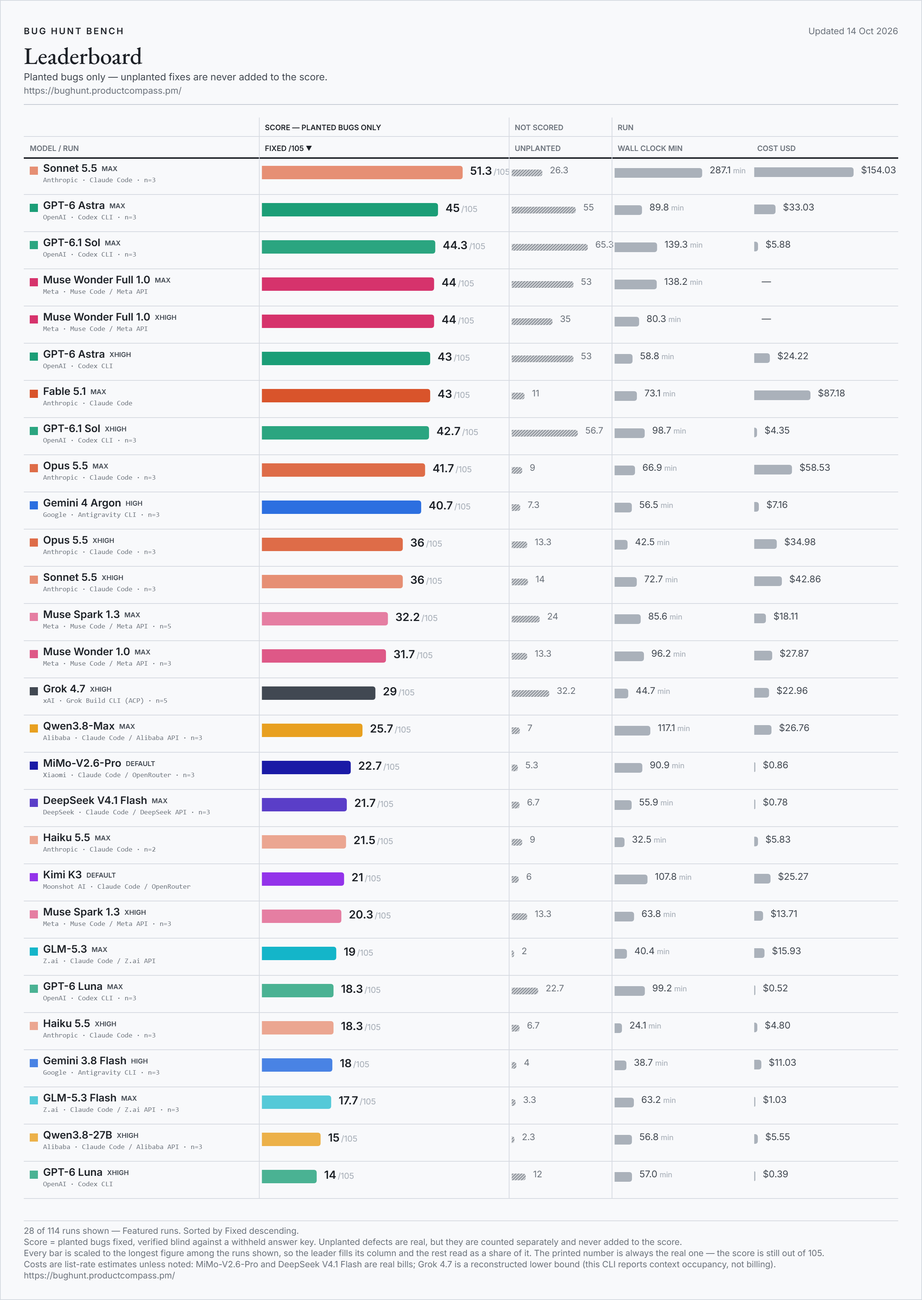
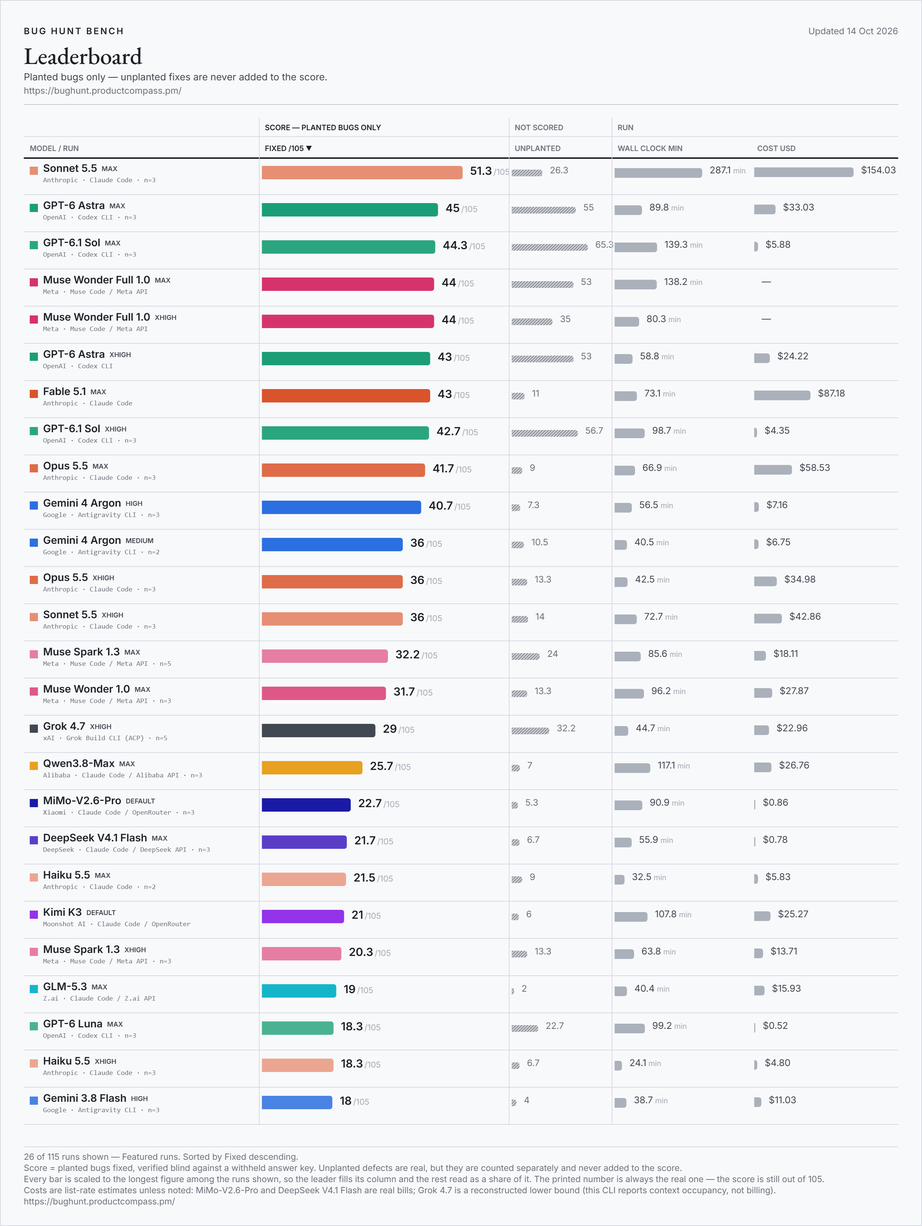
bug hunt bench: Gemini 4 Argon (medium effort, Antigravity CLI) - mean of 2 (36/105)

diff --git a/index.html b/index.html
@@ -22,14 +22,14 @@
 <meta property="og:title" content="Bug Hunt Bench — frontier coding models against real planted bugs">
 <meta property="og:description" content="A blind-graded benchmark of frontier coding models on real bugs planted in two production codebases. The score counts planted bugs only; extra fixes are tracked separately and never added.">
 <meta property="og:url" content="https://bughunt.productcompass.pm/">
-<meta property="og:image" content="https://bughunt.productcompass.pm/og-image.png?v=2026-10-14-cc7e53a6">
+<meta property="og:image" content="https://bughunt.productcompass.pm/og-image.png?v=2026-10-14-daccc48e">
 <meta property="og:image:width" content="1200">
 <meta property="og:image:height" content="630">
 <meta property="og:image:alt" content="Bug Hunt Bench leaderboard">
 <meta name="twitter:card" content="summary_large_image">
 <meta name="twitter:title" content="Bug Hunt Bench — frontier coding models against real planted bugs">
 <meta name="twitter:description" content="A blind-graded benchmark of frontier coding models on real bugs planted in two production codebases. The score counts planted bugs only.">
-<meta name="twitter:image" content="https://bughunt.productcompass.pm/og-image.png?v=2026-10-14-cc7e53a6">
+<meta name="twitter:image" content="https://bughunt.productcompass.pm/og-image.png?v=2026-10-14-daccc48e">
 <meta name="twitter:creator" content="@PawelHuryn">
 
 <link rel="icon" href="/assets/favicon.svg" type="image/svg+xml">

diff --git a/method.html b/method.html
@@ -20,14 +20,14 @@
 <meta property="og:title" content="Method, caveats and definitions — Bug Hunt Bench">
 <meta property="og:description" content="How Bug Hunt Bench is run and graded, what the board cannot tell you, and what every column on it means.">
 <meta property="og:url" content="https://bughunt.productcompass.pm/method">
-<meta property="og:image" content="https://bughunt.productcompass.pm/og-image.png?v=2026-10-14-cc7e53a6">
+<meta property="og:image" content="https://bughunt.productcompass.pm/og-image.png?v=2026-10-14-daccc48e">
 <meta property="og:image:width" content="1200">
 <meta property="og:image:height" content="630">
 <meta property="og:image:alt" content="Bug Hunt Bench leaderboard">
 <meta name="twitter:card" content="summary_large_image">
 <meta name="twitter:title" content="Method, caveats and definitions — Bug Hunt Bench">
 <meta name="twitter:description" content="How Bug Hunt Bench is run and graded, what the board cannot tell you, and what every column on it means.">
-<meta name="twitter:image" content="https://bughunt.productcompass.pm/og-image.png?v=2026-10-14-cc7e53a6">
+<meta name="twitter:image" content="https://bughunt.productcompass.pm/og-image.png?v=2026-10-14-daccc48e">
 <meta name="twitter:creator" content="@PawelHuryn">
 
 <link rel="icon" href="/assets/favicon.svg" type="image/svg+xml">

diff --git a/README.md b/README.md
@@ -7,9 +7,9 @@
 If the numbers save you a benchmark run of your own, **star this repo** — that is what keeps the bench findable, and new models are added as they ship.
 
 <!-- leaderboard:start -->
-![Bug Hunt Bench leaderboard, the featured runs, updated Oct 14, 2026](assets/leaderboard.png?v=2026-10-14-8cd195e2)
+![Bug Hunt Bench leaderboard, the featured runs, updated Oct 14, 2026](assets/leaderboard.png?v=2026-10-14-286c3702)
 
-**Updated Oct 14, 2026 · 179 rows from 219 scored runs · 46 models · 26 of 105 bugs have never been fixed by any model.**
+**Updated Oct 14, 2026 · 180 rows from 221 scored runs · 46 models · 26 of 105 bugs have never been fixed by any model.**
 
 **Current leader:** Sonnet 5.5 at `max` effort — **51.3 / 105** (22.7/45 on repo 1, 28.7/60 on repo 2).
 
@@ -30,107 +30,108 @@ If the numbers save you a benchmark run of your own, **star this repo** — that
 | 11 | Gemini 4 Argon | Antigravity CLI | high | 3 | **40.7** | 13 | 27.7 | 7.3 | 56 min | $7.16 | 2026-10-14 |
 | 12 | GPT-5.6 Sol | Codex CLI | xhigh | 1 | **39** | 18 | 21 | 59 | 126 min | $52.75 | 2026-08-28 |
 | 13 | GPT-6.1 Sol | Codex CLI | high | 2 | **36.5** | 17 | 19.5 | 40 | 70 min | $3.26 | 2026-09-30 |
-| 14 | Opus 5.5 | Claude Code | xhigh | 3 | **36** | 17 | 19 | 13.3 | 42 min | $34.98 | 2026-09-23 |
-| 15 | Sonnet 5.5 | Claude Code | xhigh | 3 | **36** | 16 | 20 | 14 | 73 min | $42.86 | 2026-09-29 |
-| 16 | GPT-6 Astra | Codex CLI | high | 1 | **35** | 19 | 16 | 40 | 40 min | $20.60 | 2026-09-04 |
-| 17 | Sonnet 5.5 | Claude Code | high | 3 | **34.3** | 15.7 | 18.7 | 10.7 | 28 min | $19.85 | 2026-09-29 |
-| 18 | GPT-6 Astra | Codex CLI | medium | 1 | **34** | 19 | 15 | 33 | 28 min | $15.78 | 2026-09-05 |
-| 19 | GPT-5.6 Sol | Codex CLI | high | 1 | **34** | 13 | 21 | 28 | 67 min | $33.92 | 2026-07-31 |
-| 20 | Gemini 4 Argon | Gemini CLI | high | 1 | **33** | 15 | 18 | 7 | 85 min | $32.08 | 2026-10-13 |
-| 21 | Fable 5.1 | Claude Code | high | 1 | **33** | 15 | 18 | 7 | 36 min | $48.58 | 2026-09-01 |
-| 22 | Muse Spark 1.3 | Muse Code / Meta API | max | 5 | **32.2** | 14.2 | 18 | 24 | 86 min | $18.11 | 2026-09-17 |
-| 23 | GPT-5.6 Terra | Codex CLI | max | 1 | **32** | 16 | 16 | 45 | 160 min | $27.98 | 2026-08-27 |
-| 24 | Opus 5.5 | Claude Code | high | 3 | **31.7** | 13 | 18.7 | 10.7 | 24 min | $22.25 | 2026-09-23 |
-| 25 | Muse Wonder 1.0 | Muse Code / Meta API | max | 3 | **31.7** | 12 | 19.7 | 13.3 | 96 min | $27.87 | 2026-10-13 |
-| 26 | GPT-5.6 Luna | Codex CLI | max | 3 | **31.3** | 16 | 15.3 | 54.7 | 187 min | $3.15 | 2026-09-22 |
-| 27 | Pareto (ex-Union Alpha) | Claude Code / OpenRouter | default | 3 | **30.7** | 16 | 14.7 | 10.3 | 38 min | $4.81 | 2026-09-17 |
-| 28 | Opus 5.5 | Claude Code | medium | 3 | **30.3** | 12.7 | 17.7 | 13.3 | 17 min | $15.68 | 2026-09-23 |
-| 29 | GPT-6 Sol | Codex CLI | max | 3 | **29.3** | 15.3 | 14 | 41.3 | 63 min | $9.33 | 2026-09-23 |
-| 30 | GPT-6.1 Sol | Codex CLI | medium | 2 | **29** | 16 | 13 | 30.5 | 30 min | $1.76 | 2026-09-30 |
-| 31 | GPT-5.6 Sol | Codex CLI | medium | 1 | **29** | 13 | 16 | 24 | 48 min | $15.77 | 2026-09-06 |
-| 32 | Grok 4.7 | Grok Build CLI (ACP) | xhigh | 5 | **29** | 13 | 16 | 32.2 | 45 min | $22.96 floor | 2026-10-08 |
-| 33 | Fable 5.1 | Claude Code | low | 1 | **29** | 13 | 16 | 6 | 33 min | $33.00 | 2026-09-02 |
-| 34 | Fable 5.1 | Claude Code | xhigh | 1 | **29** | 13 | 16 | 4 | 60 min | $53.61 | 2026-09-10 |
-| 35 | Fable 5 | Claude Code | max | 1 | **29** | 12 | 17 | 5 | 57 min | $112.40 | 2026-08-01 |
-| 36 | Grok 4.6 | Grok Build CLI (ACP) | xhigh | 3 | **28.7** | 11.7 | 17 | 18 | 43 min | $18.60 floor | 2026-09-14 |
-| 37 | GPT-6 Astra | Codex CLI | low | 1 | **27** | 18 | 9 | 25 | 32 min | $11.69 | 2026-09-05 |
-| 38 | Opus 5 | Claude Code | max | 1 | **27** | 13 | 14 | 2 | 60 min | $54.94 | 2026-08-01 |
-| 39 | Grok 4.7 | Grok Build CLI (ACP) | medium | 3 | **26.7** | 12 | 14.7 | 22.7 | 31 min | $16.76 floor | 2026-09-21 |
-| 40 | Qwen3.8-Flash | Claude Code / Alibaba API | max | 1 | **26** | 13 | 13 | 7 | 97 min | $1.81 | 2026-09-11 |
-| 41 | Opus 5 | Claude Code | xhigh | 1 | **26** | 14 | 12 | 3 | 50 min | $63.25 | 2026-08-28 |
-| 42 | Qwen3.8-Max | Claude Code / Alibaba API | max | 3 | **25.7** | 12.3 | 13.3 | 7 | 117 min | $26.76 | 2026-09-15 |
-| 43 | GPT-6 Sol | Codex CLI | xhigh | 1 | **25** | 10 | 15 | 24 | 51 min | $7.67 | 2026-09-23 |
-| 44 | Opus 5 | Claude Code | medium | 1 | **24** | 11 | 13 | 4 | 30 min | $37.40 | 2026-08-27 |
-| 45 | Fable 5 | Claude Code | high | 1 | **24** | 9 | 15 | 3 | 31 min | $74.52 | 2026-07-26 |
-| 46 | MiMo-V2.6-Flash | Claude Code / OpenRouter | default | 3 | **23.3** | 8 | 15.3 | 7.3 | 71 min | $0.49 bill | 2026-09-22 |
-| 47 | Sonnet 5.5 | Claude Code | medium | 3 | **23.3** | 8.7 | 14.7 | 8.7 | 17 min | $11.11 | 2026-09-30 |
-| 48 | Qwen3.8-Flash | Claude Code / Alibaba API | low | 1 | **23** | 11 | 12 | 7 | 98 min | $1.37 | 2026-09-11 |
-| 49 | GPT-5.6 Luna | Codex CLI | xhigh | 1 | **23** | 10 | 13 | 53 | 136 min | $2.50 | 2026-08-28 |
-| 50 | Grok 4.6 | Grok Build CLI (ACP) | high | 1 | **23** | 7 | 16 | 16 | 33 min | $15.73 floor | 2026-08-28 |
-| 51 | MiMo-V2.6-Pro | Claude Code / OpenRouter | default | 3 | **22.7** | 11.3 | 11.3 | 5.3 | 91 min | $0.86 bill | 2026-09-22 |
-| 52 | GPT-6.1 Sol | Codex CLI | low | 2 | **22.5** | 11.5 | 11 | 24 | 25 min | $1.34 | 2026-10-01 |
-| 53 | Opus 5.5 | Claude Code | low | 3 | **22.3** | 11.3 | 11 | 9.7 | 12 min | $8.34 | 2026-09-23 |
-| 54 | Grok 4.6 | Grok Build CLI (ACP) | medium | 1 | **22** | 9 | 13 | 11 | 26 min | $5.80 floor | 2026-08-28 |
-| 55 | Gemini 3.7 Flash | Gemini CLI (retired) + model-pinning gateway | high | 1 | **22** | 8 | 14 | 4 | 97 min | $8.43 | 2026-08-24 |
-| 56 | DeepSeek V4.1 Flash | Claude Code / DeepSeek API | max | 3 | **21.7** | 11.3 | 10.3 | 6.7 | 56 min | $0.78 bill | 2026-09-15 |
-| 57 | Haiku 5.5 | Claude Code | max | 2 | **21.5** | 10 | 11.5 | 9 | 32 min | $5.83 | 2026-10-07 |
-| 58 | Fable 5.1 | Claude Code | medium | 1 | **21** | 8 | 13 | 3 | 23 min | $23.73 | 2026-09-10 |
-| 59 | Kimi K3 | Claude Code / OpenRouter | default | 1 | **21** | 4 | 17 | 6 | 108 min | $25.27 | 2026-07-26 |
-| 60 | Opus 5 | Claude Code | high | 1 | **21** | 11 | 10 | 6 | 37 min | $41.51 | 2026-07-26 |
-| 61 | Muse Spark 1.3 | Muse Code / Meta API | xhigh | 3 | **20.3** | 8 | 12.3 | 13.3 | 64 min | $13.71 | 2026-09-14 |
-| 62 | GPT-6 Sol | Codex CLI | high | 1 | **20** | 10 | 10 | 15 | 34 min | $4.16 | 2026-09-23 |
-| 63 | GPT-5.6 Terra | Codex CLI | xhigh | 1 | **20** | 9 | 11 | 29 | 57 min | $8.98 | 2026-08-28 |
-| 64 | Grok 4.7 | Grok Build CLI (ACP) | high | 3 | **19.3** | 8.7 | 10.7 | 15.7 | 38 min | $12.29 floor | 2026-09-21 |
-| 65 | DeepSeek V4.1 Flash | Claude Code / DeepSeek API | high | 1 | **19** | 9 | 10 | 4 | 26 min | $0.31 bill | 2026-09-10 |
-| 66 | Sonnet 5.5 | Claude Code | low | 3 | **19** | 6.7 | 12.3 | 8 | 8 min | $5.73 | 2026-09-30 |
-| 67 | GLM-5.3 | Claude Code / Z.ai API | max | 1 | **19** | 9 | 10 | 2 | 40 min | $15.93 | 2026-09-10 |
-| 68 | Muse Spark 1.3 | Muse Code / Meta API | high | 3 | **18.7** | 8.7 | 10 | 19.3 | 76 min | $12.94 | 2026-09-14 |
-| 69 | GPT-6 Luna | Codex CLI | max | 3 | **18.3** | 6.3 | 12 | 22.7 | 99 min | $0.52 | 2026-09-23 |
-| 70 | Haiku 5.5 | Claude Code | xhigh | 3 | **18.3** | 9 | 9.3 | 6.7 | 24 min | $4.80 | 2026-10-07 |
-| 71 | MiMo-V2.6-Pro | Claude Code / Xiaomi first-party | enabled | 1 | **18** | 9 | 9 | 4 | 75 min | $0.59 | 2026-09-22 |
-| 72 | Hy4 Preview | Claude Code / OpenRouter | default | 1 | **18** | 9 | 9 | 2 | 68 min | $3.13 bill | 2026-08-28 |
-| 73 | GPT-5.6 Terra | Codex CLI | high | 1 | **18** | 7 | 11 | 17 | 28 min | $5.89 | 2026-08-27 |
-| 74 | Gemini 3.8 Flash | Antigravity CLI | high | 3 | **18** | 6.7 | 11.3 | 4 | 39 min | $11.03 | 2026-09-15 |
-| 75 | GLM-5.3 Flash | Claude Code / Z.ai API | max | 3 | **17.7** | 9.3 | 8.3 | 3.3 | 63 min | $1.03 | 2026-09-15 |
-| 76 | Grok 4.5 | Grok Build CLI (ACP) | high | 1 | **17** | 5 | 12 | 10 | 28 min | $8.50 floor | 2026-08-06 |
-| 77 | Muse Spark 1.2 | Claude Code / Meta API | xhigh | 1 | **17** | 6 | 11 | 12 | 36 min | $13.99 | 2026-08-06 |
-| 78 | Ox Alpha (stealth) | Claude Code / OpenRouter | default | 1 | **16** | 8 | 8 | 3 | 59 min | free | 2026-08-25 |
-| 79 | GLM-5.3 Flash | Claude Code / Z.ai API | high | 1 | **16** | 9 | 7 | 4 | 62 min | $0.94 | 2026-09-13 |
-| 80 | DeepSeek V4-Pro | Claude Code / DeepSeek API | max | 1 | **16** | 8 | 8 | 4 | 37 min | $1.89 bill | 2026-09-10 |
-| 81 | Haiku 5.5 | Claude Code | high | 2 | **16** | 5 | 11 | 4 | 19 min | $3.56 | 2026-10-07 |
-| 82 | Gemini 3.7 Flash | Antigravity CLI | high | 1 | **16** | 4 | 12 | 2 | 23 min | $6.36 | 2026-08-28 |
-| 83 | Grok 4.7 | Grok Build CLI (ACP) | low | 3 | **15.7** | 10.3 | 5.3 | 18.3 | 22 min | $9.36 floor | 2026-09-21 |
-| 84 | GPT-5.6 Terra | Codex CLI | medium | 1 | **15** | 4 | 11 | 6 | 20 min | $3.87 | 2026-08-27 |
-| 85 | Grok 4.6 | Grok Build CLI (ACP) | low | 1 | **15** | 6 | 9 | 9 | 18 min | $4.14 floor | 2026-08-27 |
-| 86 | Qwen3.8-27B | Claude Code / Alibaba API | xhigh | 3 | **15** | 5.7 | 9.3 | 2.3 | 57 min | $5.55 | 2026-09-15 |
-| 87 | Mistral Large 4 | Claude Code / OpenRouter | high | 3 | **15** | 5 | 10 | 3.3 | 111 min | $11.95 bill | 2026-10-07 |
-| 88 | Opus 4.8 | Claude Code | max | 1 | **15** | 6 | 9 | 3 | 109 min | $58.11 | 2026-09-10 |
-| 89 | GPT-6 Luna | Codex CLI | xhigh | 1 | **14** | 4 | 10 | 12 | 57 min | $0.39 | 2026-09-23 |
-| 90 | DeepSeek V4-Flash | Claude Code / OpenRouter | default | 1 | **14** | 6 | 8 | 0 | 48 min | $1.52 bill | 2026-08-01 |
-| 91 | GPT-6 Sol | Codex CLI | medium | 1 | **14** | 3 | 11 | 13 | 24 min | $2.39 | 2026-09-23 |
-| 92 | GPT-5.6 Luna | Codex CLI | high | 1 | **13** | 5 | 8 | 22 | 64 min | $0.57 | 2026-07-31 |
-| 93 | GLM-5.3 Flash | Claude Code / OpenRouter | default | 1 | **13** | 6 | 7 | 4 | 57 min | $0.79 bill | 2026-08-27 |
-| 94 | DeepSeek V4-Pro | Claude Code / DeepSeek API | high | 1 | **13** | 4 | 9 | 1 | 27 min | $1.08 bill | 2026-09-10 |
-| 95 | Muse Spark 1.3 | Muse Code / Meta API | medium | 3 | **13** | 5.3 | 7.7 | 17.3 | 58 min | $9.24 | 2026-09-14 |
-| 96 | Haiku 5.5 | Claude Code | medium | 1 | **12** | 5 | 7 | 4 | 16 min | $2.66 | 2026-10-08 |
-| 97 | Haiku 5.5 | Claude Code | low | 1 | **11** | 4 | 7 | 2 | 9 min | $1.61 | 2026-10-08 |
-| 98 | Qwen3.8-27B 8-bit | Claude Code / OpenRouter | default | 3 | **10.7** | 3.7 | 7 | 1.7 | 57 min | $2.97 bill | 2026-09-16 |
-| 99 | Muse Spark 1.3 | Muse Code / Meta API | low | 3 | **9.7** | 5 | 4.7 | 6.7 | 36 min | $5.61 | 2026-09-14 |
-| 100 | GPT-6 Luna | Codex CLI | high | 1 | **9** | 2 | 7 | 9 | 24 min | $0.13 | 2026-09-23 |
-| 101 | GPT-5.6 Luna | Codex CLI | medium | 1 | **9** | 5 | 4 | 5 | 15 min | $0.33 | 2026-08-27 |
-| 102 | GLM-5.3 Flash | Claude Code / Z.ai API | low | 1 | **9** | 7 | 2 | 4 | 29 min | $0.42 | 2026-09-13 |
-| 103 | Sonnet 5 | Claude Code | high | 1 | **9** | 1 | 8 | 4 | 33 min | $11.38 | 2026-07-26 |
-| 104 | Sonnet 5 | Claude Code | max | 1 | **9** | 3 | 6 | 3 | 61 min | $17.96 | 2026-09-10 |
-| 105 | Opus 4.8 | Claude Code | high | 1 | **9** | 2 | 7 | 1 | 35 min | $21.30 | 2026-07-26 |
-| 106 | GPT-6 Sol | Codex CLI | low | 1 | **6** | 3 | 3 | 5 | 11 min | $1.08 | 2026-09-23 |
-| 107 | GPT-6 Luna | Codex CLI | medium | 1 | **4** | 2 | 2 | 0 | 9 min | $0.06 | 2026-09-23 |
-| 108 | GPT-5.6 Luna | Codex CLI | low | 1 | **4** | 0 | 4 | 1 | 6 min | $0.10 | 2026-08-27 |
-| 109 | GPT-6 Luna | Codex CLI | low | 1 | **4** | 1 | 3 | 9 | 19 min | $0.20 | 2026-09-23 |
-| 110 | Gemma 4 31B | Claude Code / OpenRouter | default | 1 | **4** | 1 | 3 | 2 | 222 min | $8.61 bill | 2026-09-16 |
-| 111 | Gemma 4 31B 4-bit | Claude Code / OpenRouter | default | 1 | **3** | 1 | 2 | 2 | 25 min | $0.56 bill | 2026-09-16 |
-| 112 | Haiku 4.5 | Claude Code | default | 2 | **1.5** | 0.5 | 1 | 2.5 | 17 min | $2.22 | 2026-10-08 |
-| 113 | gpt-oss-120b | Claude Code / OpenRouter | default | 3 | **0** | 0 | 0 | 0.3 | 4 min | $0.11 bill | 2026-09-15 |
-| 114 | gpt-oss-20b | Claude Code / OpenRouter | default | 3 | **0** | 0 | 0 | 0 | 7 min | $0.11 bill | 2026-09-15 |
+| 14 | Gemini 4 Argon | Antigravity CLI | medium | 2 | **36** | 14 | 22 | 10.5 | 40 min | $6.75 | 2026-10-14 |
+| 15 | Opus 5.5 | Claude Code | xhigh | 3 | **36** | 17 | 19 | 13.3 | 42 min | $34.98 | 2026-09-23 |
+| 16 | Sonnet 5.5 | Claude Code | xhigh | 3 | **36** | 16 | 20 | 14 | 73 min | $42.86 | 2026-09-29 |
+| 17 | GPT-6 Astra | Codex CLI | high | 1 | **35** | 19 | 16 | 40 | 40 min | $20.60 | 2026-09-04 |
+| 18 | Sonnet 5.5 | Claude Code | high | 3 | **34.3** | 15.7 | 18.7 | 10.7 | 28 min | $19.85 | 2026-09-29 |
+| 19 | GPT-6 Astra | Codex CLI | medium | 1 | **34** | 19 | 15 | 33 | 28 min | $15.78 | 2026-09-05 |
+| 20 | GPT-5.6 Sol | Codex CLI | high | 1 | **34** | 13 | 21 | 28 | 67 min | $33.92 | 2026-07-31 |
+| 21 | Gemini 4 Argon | Gemini CLI | high | 1 | **33** | 15 | 18 | 7 | 85 min | $32.08 | 2026-10-13 |
+| 22 | Fable 5.1 | Claude Code | high | 1 | **33** | 15 | 18 | 7 | 36 min | $48.58 | 2026-09-01 |
+| 23 | Muse Spark 1.3 | Muse Code / Meta API | max | 5 | **32.2** | 14.2 | 18 | 24 | 86 min | $18.11 | 2026-09-17 |
+| 24 | GPT-5.6 Terra | Codex CLI | max | 1 | **32** | 16 | 16 | 45 | 160 min | $27.98 | 2026-08-27 |
+| 25 | Opus 5.5 | Claude Code | high | 3 | **31.7** | 13 | 18.7 | 10.7 | 24 min | $22.25 | 2026-09-23 |
+| 26 | Muse Wonder 1.0 | Muse Code / Meta API | max | 3 | **31.7** | 12 | 19.7 | 13.3 | 96 min | $27.87 | 2026-10-13 |
+| 27 | GPT-5.6 Luna | Codex CLI | max | 3 | **31.3** | 16 | 15.3 | 54.7 | 187 min | $3.15 | 2026-09-22 |
+| 28 | Pareto (ex-Union Alpha) | Claude Code / OpenRouter | default | 3 | **30.7** | 16 | 14.7 | 10.3 | 38 min | $4.81 | 2026-09-17 |
+| 29 | Opus 5.5 | Claude Code | medium | 3 | **30.3** | 12.7 | 17.7 | 13.3 | 17 min | $15.68 | 2026-09-23 |
+| 30 | GPT-6 Sol | Codex CLI | max | 3 | **29.3** | 15.3 | 14 | 41.3 | 63 min | $9.33 | 2026-09-23 |
+| 31 | GPT-6.1 Sol | Codex CLI | medium | 2 | **29** | 16 | 13 | 30.5 | 30 min | $1.76 | 2026-09-30 |
+| 32 | GPT-5.6 Sol | Codex CLI | medium | 1 | **29** | 13 | 16 | 24 | 48 min | $15.77 | 2026-09-06 |
+| 33 | Grok 4.7 | Grok Build CLI (ACP) | xhigh | 5 | **29** | 13 | 16 | 32.2 | 45 min | $22.96 floor | 2026-10-08 |
+| 34 | Fable 5.1 | Claude Code | low | 1 | **29** | 13 | 16 | 6 | 33 min | $33.00 | 2026-09-02 |
+| 35 | Fable 5.1 | Claude Code | xhigh | 1 | **29** | 13 | 16 | 4 | 60 min | $53.61 | 2026-09-10 |
+| 36 | Fable 5 | Claude Code | max | 1 | **29** | 12 | 17 | 5 | 57 min | $112.40 | 2026-08-01 |
+| 37 | Grok 4.6 | Grok Build CLI (ACP) | xhigh | 3 | **28.7** | 11.7 | 17 | 18 | 43 min | $18.60 floor | 2026-09-14 |
+| 38 | GPT-6 Astra | Codex CLI | low | 1 | **27** | 18 | 9 | 25 | 32 min | $11.69 | 2026-09-05 |
+| 39 | Opus 5 | Claude Code | max | 1 | **27** | 13 | 14 | 2 | 60 min | $54.94 | 2026-08-01 |
+| 40 | Grok 4.7 | Grok Build CLI (ACP) | medium | 3 | **26.7** | 12 | 14.7 | 22.7 | 31 min | $16.76 floor | 2026-09-21 |
+| 41 | Qwen3.8-Flash | Claude Code / Alibaba API | max | 1 | **26** | 13 | 13 | 7 | 97 min | $1.81 | 2026-09-11 |
+| 42 | Opus 5 | Claude Code | xhigh | 1 | **26** | 14 | 12 | 3 | 50 min | $63.25 | 2026-08-28 |
+| 43 | Qwen3.8-Max | Claude Code / Alibaba API | max | 3 | **25.7** | 12.3 | 13.3 | 7 | 117 min | $26.76 | 2026-09-15 |
+| 44 | GPT-6 Sol | Codex CLI | xhigh | 1 | **25** | 10 | 15 | 24 | 51 min | $7.67 | 2026-09-23 |
+| 45 | Opus 5 | Claude Code | medium | 1 | **24** | 11 | 13 | 4 | 30 min | $37.40 | 2026-08-27 |
+| 46 | Fable 5 | Claude Code | high | 1 | **24** | 9 | 15 | 3 | 31 min | $74.52 | 2026-07-26 |
+| 47 | MiMo-V2.6-Flash | Claude Code / OpenRouter | default | 3 | **23.3** | 8 | 15.3 | 7.3 | 71 min | $0.49 bill | 2026-09-22 |
+| 48 | Sonnet 5.5 | Claude Code | medium | 3 | **23.3** | 8.7 | 14.7 | 8.7 | 17 min | $11.11 | 2026-09-30 |
+| 49 | Qwen3.8-Flash | Claude Code / Alibaba API | low | 1 | **23** | 11 | 12 | 7 | 98 min | $1.37 | 2026-09-11 |
+| 50 | GPT-5.6 Luna | Codex CLI | xhigh | 1 | **23** | 10 | 13 | 53 | 136 min | $2.50 | 2026-08-28 |
+| 51 | Grok 4.6 | Grok Build CLI (ACP) | high | 1 | **23** | 7 | 16 | 16 | 33 min | $15.73 floor | 2026-08-28 |
+| 52 | MiMo-V2.6-Pro | Claude Code / OpenRouter | default | 3 | **22.7** | 11.3 | 11.3 | 5.3 | 91 min | $0.86 bill | 2026-09-22 |
+| 53 | GPT-6.1 Sol | Codex CLI | low | 2 | **22.5** | 11.5 | 11 | 24 | 25 min | $1.34 | 2026-10-01 |
+| 54 | Opus 5.5 | Claude Code | low | 3 | **22.3** | 11.3 | 11 | 9.7 | 12 min | $8.34 | 2026-09-23 |
+| 55 | Grok 4.6 | Grok Build CLI (ACP) | medium | 1 | **22** | 9 | 13 | 11 | 26 min | $5.80 floor | 2026-08-28 |
+| 56 | Gemini 3.7 Flash | Gemini CLI (retired) + model-pinning gateway | high | 1 | **22** | 8 | 14 | 4 | 97 min | $8.43 | 2026-08-24 |
+| 57 | DeepSeek V4.1 Flash | Claude Code / DeepSeek API | max | 3 | **21.7** | 11.3 | 10.3 | 6.7 | 56 min | $0.78 bill | 2026-09-15 |
+| 58 | Haiku 5.5 | Claude Code | max | 2 | **21.5** | 10 | 11.5 | 9 | 32 min | $5.83 | 2026-10-07 |
+| 59 | Fable 5.1 | Claude Code | medium | 1 | **21** | 8 | 13 | 3 | 23 min | $23.73 | 2026-09-10 |
+| 60 | Kimi K3 | Claude Code / OpenRouter | default | 1 | **21** | 4 | 17 | 6 | 108 min | $25.27 | 2026-07-26 |
+| 61 | Opus 5 | Claude Code | high | 1 | **21** | 11 | 10 | 6 | 37 min | $41.51 | 2026-07-26 |
+| 62 | Muse Spark 1.3 | Muse Code / Meta API | xhigh | 3 | **20.3** | 8 | 12.3 | 13.3 | 64 min | $13.71 | 2026-09-14 |
+| 63 | GPT-6 Sol | Codex CLI | high | 1 | **20** | 10 | 10 | 15 | 34 min | $4.16 | 2026-09-23 |
+| 64 | GPT-5.6 Terra | Codex CLI | xhigh | 1 | **20** | 9 | 11 | 29 | 57 min | $8.98 | 2026-08-28 |
+| 65 | Grok 4.7 | Grok Build CLI (ACP) | high | 3 | **19.3** | 8.7 | 10.7 | 15.7 | 38 min | $12.29 floor | 2026-09-21 |
+| 66 | DeepSeek V4.1 Flash | Claude Code / DeepSeek API | high | 1 | **19** | 9 | 10 | 4 | 26 min | $0.31 bill | 2026-09-10 |
+| 67 | Sonnet 5.5 | Claude Code | low | 3 | **19** | 6.7 | 12.3 | 8 | 8 min | $5.73 | 2026-09-30 |
+| 68 | GLM-5.3 | Claude Code / Z.ai API | max | 1 | **19** | 9 | 10 | 2 | 40 min | $15.93 | 2026-09-10 |
+| 69 | Muse Spark 1.3 | Muse Code / Meta API | high | 3 | **18.7** | 8.7 | 10 | 19.3 | 76 min | $12.94 | 2026-09-14 |
+| 70 | GPT-6 Luna | Codex CLI | max | 3 | **18.3** | 6.3 | 12 | 22.7 | 99 min | $0.52 | 2026-09-23 |
+| 71 | Haiku 5.5 | Claude Code | xhigh | 3 | **18.3** | 9 | 9.3 | 6.7 | 24 min | $4.80 | 2026-10-07 |
+| 72 | MiMo-V2.6-Pro | Claude Code / Xiaomi first-party | enabled | 1 | **18** | 9 | 9 | 4 | 75 min | $0.59 | 2026-09-22 |
+| 73 | Hy4 Preview | Claude Code / OpenRouter | default | 1 | **18** | 9 | 9 | 2 | 68 min | $3.13 bill | 2026-08-28 |
+| 74 | GPT-5.6 Terra | Codex CLI | high | 1 | **18** | 7 | 11 | 17 | 28 min | $5.89 | 2026-08-27 |
+| 75 | Gemini 3.8 Flash | Antigravity CLI | high | 3 | **18** | 6.7 | 11.3 | 4 | 39 min | $11.03 | 2026-09-15 |
+| 76 | GLM-5.3 Flash | Claude Code / Z.ai API | max | 3 | **17.7** | 9.3 | 8.3 | 3.3 | 63 min | $1.03 | 2026-09-15 |
+| 77 | Grok 4.5 | Grok Build CLI (ACP) | high | 1 | **17** | 5 | 12 | 10 | 28 min | $8.50 floor | 2026-08-06 |
+| 78 | Muse Spark 1.2 | Claude Code / Meta API | xhigh | 1 | **17** | 6 | 11 | 12 | 36 min | $13.99 | 2026-08-06 |
+| 79 | Ox Alpha (stealth) | Claude Code / OpenRouter | default | 1 | **16** | 8 | 8 | 3 | 59 min | free | 2026-08-25 |
+| 80 | GLM-5.3 Flash | Claude Code / Z.ai API | high | 1 | **16** | 9 | 7 | 4 | 62 min | $0.94 | 2026-09-13 |
+| 81 | DeepSeek V4-Pro | Claude Code / DeepSeek API | max | 1 | **16** | 8 | 8 | 4 | 37 min | $1.89 bill | 2026-09-10 |
+| 82 | Haiku 5.5 | Claude Code | high | 2 | **16** | 5 | 11 | 4 | 19 min | $3.56 | 2026-10-07 |
+| 83 | Gemini 3.7 Flash | Antigravity CLI | high | 1 | **16** | 4 | 12 | 2 | 23 min | $6.36 | 2026-08-28 |
+| 84 | Grok 4.7 | Grok Build CLI (ACP) | low | 3 | **15.7** | 10.3 | 5.3 | 18.3 | 22 min | $9.36 floor | 2026-09-21 |
+| 85 | GPT-5.6 Terra | Codex CLI | medium | 1 | **15** | 4 | 11 | 6 | 20 min | $3.87 | 2026-08-27 |
+| 86 | Grok 4.6 | Grok Build CLI (ACP) | low | 1 | **15** | 6 | 9 | 9 | 18 min | $4.14 floor | 2026-08-27 |
+| 87 | Qwen3.8-27B | Claude Code / Alibaba API | xhigh | 3 | **15** | 5.7 | 9.3 | 2.3 | 57 min | $5.55 | 2026-09-15 |
+| 88 | Mistral Large 4 | Claude Code / OpenRouter | high | 3 | **15** | 5 | 10 | 3.3 | 111 min | $11.95 bill | 2026-10-07 |
+| 89 | Opus 4.8 | Claude Code | max | 1 | **15** | 6 | 9 | 3 | 109 min | $58.11 | 2026-09-10 |
+| 90 | GPT-6 Luna | Codex CLI | xhigh | 1 | **14** | 4 | 10 | 12 | 57 min | $0.39 | 2026-09-23 |
+| 91 | DeepSeek V4-Flash | Claude Code / OpenRouter | default | 1 | **14** | 6 | 8 | 0 | 48 min | $1.52 bill | 2026-08-01 |
+| 92 | GPT-6 Sol | Codex CLI | medium | 1 | **14** | 3 | 11 | 13 | 24 min | $2.39 | 2026-09-23 |
+| 93 | GPT-5.6 Luna | Codex CLI | high | 1 | **13** | 5 | 8 | 22 | 64 min | $0.57 | 2026-07-31 |
+| 94 | GLM-5.3 Flash | Claude Code / OpenRouter | default | 1 | **13** | 6 | 7 | 4 | 57 min | $0.79 bill | 2026-08-27 |
+| 95 | DeepSeek V4-Pro | Claude Code / DeepSeek API | high | 1 | **13** | 4 | 9 | 1 | 27 min | $1.08 bill | 2026-09-10 |
+| 96 | Muse Spark 1.3 | Muse Code / Meta API | medium | 3 | **13** | 5.3 | 7.7 | 17.3 | 58 min | $9.24 | 2026-09-14 |
+| 97 | Haiku 5.5 | Claude Code | medium | 1 | **12** | 5 | 7 | 4 | 16 min | $2.66 | 2026-10-08 |
+| 98 | Haiku 5.5 | Claude Code | low | 1 | **11** | 4 | 7 | 2 | 9 min | $1.61 | 2026-10-08 |
+| 99 | Qwen3.8-27B 8-bit | Claude Code / OpenRouter | default | 3 | **10.7** | 3.7 | 7 | 1.7 | 57 min | $2.97 bill | 2026-09-16 |
+| 100 | Muse Spark 1.3 | Muse Code / Meta API | low | 3 | **9.7** | 5 | 4.7 | 6.7 | 36 min | $5.61 | 2026-09-14 |
+| 101 | GPT-6 Luna | Codex CLI | high | 1 | **9** | 2 | 7 | 9 | 24 min | $0.13 | 2026-09-23 |
+| 102 | GPT-5.6 Luna | Codex CLI | medium | 1 | **9** | 5 | 4 | 5 | 15 min | $0.33 | 2026-08-27 |
+| 103 | GLM-5.3 Flash | Claude Code / Z.ai API | low | 1 | **9** | 7 | 2 | 4 | 29 min | $0.42 | 2026-09-13 |
+| 104 | Sonnet 5 | Claude Code | high | 1 | **9** | 1 | 8 | 4 | 33 min | $11.38 | 2026-07-26 |
+| 105 | Sonnet 5 | Claude Code | max | 1 | **9** | 3 | 6 | 3 | 61 min | $17.96 | 2026-09-10 |
+| 106 | Opus 4.8 | Claude Code | high | 1 | **9** | 2 | 7 | 1 | 35 min | $21.30 | 2026-07-26 |
+| 107 | GPT-6 Sol | Codex CLI | low | 1 | **6** | 3 | 3 | 5 | 11 min | $1.08 | 2026-09-23 |
+| 108 | GPT-6 Luna | Codex CLI | medium | 1 | **4** | 2 | 2 | 0 | 9 min | $0.06 | 2026-09-23 |
+| 109 | GPT-5.6 Luna | Codex CLI | low | 1 | **4** | 0 | 4 | 1 | 6 min | $0.10 | 2026-08-27 |
+| 110 | GPT-6 Luna | Codex CLI | low | 1 | **4** | 1 | 3 | 9 | 19 min | $0.20 | 2026-09-23 |
+| 111 | Gemma 4 31B | Claude Code / OpenRouter | default | 1 | **4** | 1 | 3 | 2 | 222 min | $8.61 bill | 2026-09-16 |
+| 112 | Gemma 4 31B 4-bit | Claude Code / OpenRouter | default | 1 | **3** | 1 | 2 | 2 | 25 min | $0.56 bill | 2026-09-16 |
+| 113 | Haiku 4.5 | Claude Code | default | 2 | **1.5** | 0.5 | 1 | 2.5 | 17 min | $2.22 | 2026-10-08 |
+| 114 | gpt-oss-120b | Claude Code / OpenRouter | default | 3 | **0** | 0 | 0 | 0.3 | 4 min | $0.11 bill | 2026-09-15 |
+| 115 | gpt-oss-20b | Claude Code / OpenRouter | default | 3 | **0** | 0 | 0 | 0 | 7 min | $0.11 bill | 2026-09-15 |
 
 **Runs** is how many independent runs the row is built from. A row at `1` is a single measurement. A row above `1` is the MEAN of that many runs of an identical configuration - same model, prompt, harness, route, effort flag and judge - and every count, wall and cost on it is averaged, which is why those rows carry a decimal. The individual runs behind a mean are published in full in the metrics CSVs, so the spread stays auditable: this board has measured a 9-point range of 105 on a fixed configuration, so a single run is not a measurement of a model, and two rows at `1` that differ by a few points may not differ at all.
 

diff --git a/results/run-notes.md b/results/run-notes.md
@@ -2,7 +2,7 @@
 
 Every row on the board, with the note and caveat it carries. Generated from `data/benchmark.json` by `bench_golive.py` - do not edit by hand.
 
-Updated Oct 14, 2026 · 179 rows from 219 scored runs. Superseded rows are listed last.
+Updated Oct 14, 2026 · 180 rows from 221 scored runs. Superseded rows are listed last.
 
 ## Sonnet 5.5 (max effort) - mean of 3
 
@@ -97,6 +97,14 @@ Second only to Sol max (42) on the board; the Sol dial runs high 34 -> xhigh 39 
 **Caveat.** Two runs of an identical configuration scoring 38 and 35 of 105 - spread 3. Read the mean with that width - two runs is a thin mean. It runs Codex 0.159.0, newer than every other OpenAI row, because the build the others use refuses this model. Cost is a list-rate estimate; no request reached the long-context rates. Wall figures may include load from other work on the laptop.
 
 OpenAI's GPT-6.1 Sol at high effort through OpenAI's own Codex CLI, on a ChatGPT account, published as the MEAN OF TWO INDEPENDENT RUNS. Runs scored 38 and 35 of 105 (repo 1: 15, 19 - repo 2: 23, 16). Mean 36.5, range 3. *** THIS SUPERSEDES GPT-6.1 SOL (HIGH EFFORT) (38 OF 105) *** *** THE REPLICATE IS BYTE-IDENTICAL TO THE FIRST RUN *** same model string, effort, pinned CLI, timeout, price table and blind judge; only the arm name differs, so the spread is run-to-run variance. *** WALL, COST AND TURNS *** walls 78.7, 61.9 minutes; cost $3.51, $3.02; turns 159, 131. *** GENUINE EXTRAS *** 45, 35 across the runs, never folded into the score. The GPT-6.1 Sol ladder elsewhere on the board: GPT-6.1 Sol at low 31, GPT-6.1 Sol at medium 28, GPT-6.1 Sol at xhigh 42.7 (mean of 3), GPT-6.1 Sol at max 44.3 (mean of 3). At the same tier the board publishes GPT-6 Sol at high 20, GPT-6 Astra at high 35, Sonnet 5.5 at high 34.3 (mean of 3) of 105. *** THIS ROW RUNS A NEWER CODEX BUILD THAN THE OTHER OPENAI ROWS, UNAVOIDABLY *** the build the rest of this board's OpenAI rows use answers 'not supported when using Codex with a ChatGPT account' for this model on the same account at the same minute that Codex 0.159.0 runs it, so the blocker is the client, not entitlement. The GPT-6 Sol rows ran on 0.155.1, so a gap against them is model-plus-client. (That rejection message is generic - a made-up slug gets it word for word - so it is never evidence about whether a model exists; the API's own model list settled that.) *** THE TIER IS VERIFIED, NOT ASSUMED *** the effort is a first-party Codex tier from the account's own model list, and every leg's own Codex session record shows it ran at high. *** COST IS A LIST ESTIMATE *** token counts at OpenAI's published GPT-6.1 Sol short-context rates, $2 input, $0.10 cached, $10 output per million. Requests over 272K input bill 2x on input and cache and 1.5x on output; none of these legs sent one - Codex caps this model's context below that line, and the session records confirm every request stayed under it. The Codex CLI on a subscription exposes no per-run bill, hence `list`. *** THE JUDGE IS NOT THIS BOARD'S DEFAULT, BY RULE *** a model may never judge itself or a sibling, and the default Codex judge is an OpenAI model, so it is disqualified for this arm. Judged by grok-4.7, blinded to the arm's identity - the id is read back from the scoring receipt. *** RECEIPTS *** Every leg exited 0 with a report written, run SEQUENTIALLY, one repo at a time, code mode off as on the GPT-6 Sol arms. 2 of the 4 legs shared the laptop with another arm and the rest had it to themselves, which the wall marker discloses per leg - scores, tokens and cost are untouched by that, only the clock.
+
+## Gemini 4 Argon (medium effort, Antigravity CLI) - mean of 2
+
+**36 / 105** · repo 1 14/45 · repo 2 22/60 · 10.5 unplanted · 40.5 min · $6.75 · `medium` · Antigravity CLI · mean of 2 runs · 2026-10-14
+
+**Caveat.** Mean of two runs (33 and 39 of 105). Medium is the model's default tier. Cost is a list estimate from Google's per-call usage.
+
+Google's Gemini 4 Argon at thinking level medium - its default, one tier below the ceiling - through the Antigravity CLI, set up exactly as the high row. MEAN OF TWO RUNS: 33 and 39 of 105 (repo 1: 13 and 15 of 45 - repo 2: 20 and 24 of 60), mean 36.0. Genuine unplanted extras 8 and 13; claimed-only fixes 0 and 0. Walls 36.3 and 44.7 minutes; cost $6.81 and $6.69. *** AGAINST HIGH *** the high row stands at 40.7 (mean of three). The two tiers are level on repo 1 and the gap is on repo 2; medium costs about the same as high per run, so the higher tier is the better buy here. *** EFFORT medium *** agy sends thinkingLevel MEDIUM for gemini-4-argon-medium and the gateway read it back on the main loop's calls; a couple of agy's own side calls per run go out at HIGH regardless of the setting. *** COST *** a list estimate from Google's per-call usage at its launch rate ($2 input / $0.10 cached input / $10 output per million tokens); legs that ran together are split by agy's per-leg share. If Google bills prompts over 200K tokens at a higher rate, as it does for its Pro models, this figure is low. *** RECEIPTS *** Every leg shared the laptop with another arm, which the wall marker discloses - scores, tokens and cost are untouched by that, only the clock. Judge: blind Codex gpt-5.5, which is neither this model nor a sibling of it.
 
 ## Opus 5.5 (xhigh effort) - mean of 3
 

diff --git a/results/waves.md b/results/waves.md
@@ -4129,3 +4129,22 @@ output per million tokens): $5.74, $6.43 and $9.30 per run. **Corrected the same
 first showed $5.82 per run, from agy's own token counts, which read 10-38% below what Google reported per call. If
 Google bills prompts over 200K tokens at a higher rate, as it does for its Pro models, these figures and the Gemini
 CLI row's are low.
+
+## Gemini 4 Argon at medium — 36.0 of 105, and no cheaper than high (Oct 14)
+
+Two runs of Gemini 4 Argon at thinking level medium - the model's default, one tier below the ceiling - through the
+Antigravity CLI, set up exactly as the high row.
+
+| Row | Runs | Score | Repo 1 | Repo 2 | Extras | Wall | Cost |
+|---|---|---|---|---|---|---|---|
+| Gemini 4 Argon (medium effort, Antigravity CLI) - mean of 2 | mean of 2 | **36.0** / 105 | 14.0 / 45 | 22.0 / 60 | 10.5 | 40.5 min | $6.75 |
+| Gemini 4 Argon (high effort, Antigravity CLI) - mean of 3 | mean of 3 | 40.7 / 105 | 13.0 / 45 | 27.7 / 60 | 7.3 | 56.5 min | $7.16 |
+
+The runs scored 33 and 39. The two tiers are level on repo 1; high's lead is all on repo 2. Medium is faster but
+not meaningfully cheaper - about $6.75 a run against $7.16 - so on this bench the higher tier is the better buy. No
+claimed fix was missing in either run.
+
+**Effort.** The CLI sends thinkingLevel MEDIUM for `gemini-4-argon-medium`, read back at the gateway on the main
+loop's calls; a couple of the CLI's own side calls per run go out at HIGH regardless of the setting.
+
+**Cost** is a list estimate from Google's per-call usage at its launch rate, computed that way from the start.
